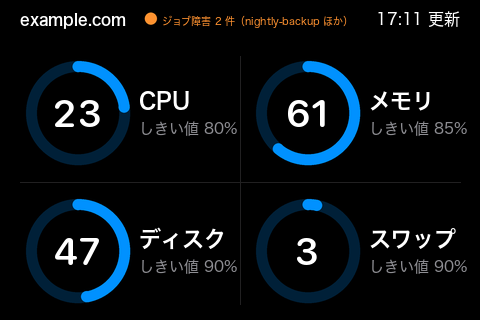
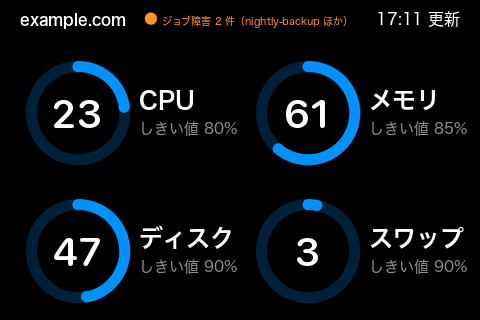
feat: 5.2 インチの「サーバー」の小見出しと 3.5 インチ 2 台の罫線を消し、その分リングと項目を大きくする
- 5.2 インチ: 小見出しを消し、リングを外径 228→240 px・数字 81→86 px に
- 3.5 インチ（この Mac の状態・サーバーの状態の横置き）: 縦横の罫線を消し、名前 22→24・数字 38→40 に
- 3.5 インチ（Claude の pace）: 2 段の間の罫線を消し、名前・数字・棒・下の行を大きく。下の行は、横の狭い
  3.5 インチでも左右の間が残る大きさに 2 段そろえて縮める
ユーザーの指示。docs/handover.md §4-26。

diff --git a/tests/test_monitor_screen.py b/tests/test_monitor_screen.py
@@ -17,6 +17,11 @@ def near(pixel, color, tolerance=12):
     return all(abs(a - b) <= tolerance for a, b in zip(pixel, color))
 
 
+def right_ring_left():
+    """横置きの右の列のリングの左端（3.5 インチ）。"""
+    return ms.LANDSCAPE.cells[1][0] + ms.LANDSCAPE.ring[0] - ms.LANDSCAPE.ring[2]
+
+
 COUNTERS = (sm.CounterSpec("5xx エラー", "Example/Application", "Http5xx", 5),
             sm.CounterSpec("PHP エラー", "Example/Application", "PhpFatalError", 1))
 
@@ -65,10 +70,12 @@ class MonitorScreenTest(unittest.TestCase):
         start = 480 - ms.LANDSCAPE.inset - font(ms.LANDSCAPE.stamp_size, SMALL_WEIGHT).getlength("00:00 更新")
         self.assertGreater(start, ms.LANDSCAPE.pill[2])
 
-    def test_landscape_threshold_stays_left_of_the_divider(self):
+    def test_landscape_threshold_stays_left_of_the_right_column(self):
+        # 2026-11-03 に罫線を消した。左の列のしきい値は、右の列のリングの左端から 12 ピクセル以上離れる
         threshold_x, _, _, threshold_size = ms.LANDSCAPE.threshold
         end = ms.LANDSCAPE.cells[0][0] + threshold_x + font(threshold_size, SMALL_WEIGHT).getlength("しきい値 85%")
-        self.assertLess(end, ms.LANDSCAPE.dividers[0][0])
+        self.assertEqual(ms.LANDSCAPE.dividers, ())
+        self.assertLess(end, right_ring_left() - 12)
 
     def test_landscape_detail_stays_gray_and_the_number_has_no_percent_sign(self):
         # 2026-10-27、視認性を上げるため、しきい値を 14→15 ピクセルにし、% を外して数字を 30→38 にした。
@@ -103,7 +110,7 @@ class MonitorScreenTest(unittest.TestCase):
         self.assertTrue(all(b - a > 2 * radius + 20 for a, b in zip(xs, xs[1:])))
         # リングとしきい値の字は「直近 24 時間」の小見出しの上に収まる（上下のまとまりの間の罫線は 2026-11-03 に消した）
         self.assertEqual(large.dividers, ())
-        caption_x, caption_y, _caption, caption_size, _w, _a = large.headings[1]
+        caption_x, caption_y, _caption, caption_size, _w, _a = large.headings[-1]  # 「直近 24 時間」
         self.assertLess(cy + radius, large.threshold[1] - large.threshold[3])
         self.assertLess(large.threshold[1] + 3, caption_y - caption_size - 10)
         self.assertGreater(cy - radius, ms.BIG_BOX[2][1])  # 異常の 2 行の帯の下
@@ -140,26 +147,28 @@ class MonitorScreenTest(unittest.TestCase):
             self.assertEqual(image.getpixel((2, image.height - 2)), RED)
 
     def test_headings_under_a_two_line_alert_are_not_drawn(self):
-        # 2 行の異常の文言の帯は「サーバー」の小見出しまで伸びるので、その小見出しは描かない
+        # 2 行の異常の文言の帯にかかる小見出しは描かない（「サーバー」の小見出しがあった 2026-11-03 に入れた仕組み。
+        # 同日その小見出しは消したので、帯にかかる位置に小見出しを置いた配置で確かめる）
         cfg = config(counters=COUNTERS, large_alerts=True)
         long = "トップ 本文に必要な文字列が無い状態が続いていて、再読み込みしても戻らない"
         st = status_with_counters()
         assessment = sm.Assessment((long,), (), frozenset())
-        image = ms.render(st, assessment, cfg, layout=ms.LANDSCAPE_LARGE)
-        k = ms.LANDSCAPE_LARGE.k
-        _hx, hy, _text, size, _w, _a = ms.LANDSCAPE_LARGE.headings[0]
+        layout = replace(ms.LANDSCAPE_LARGE, headings=((26.7, 54.2, "サーバー", 12, 6, "ls"),))
+        image = ms.render(st, assessment, cfg, layout=layout)
+        k = layout.k
+        _hx, hy, _text, size, _w, _a = layout.headings[0]
         self.assertLessEqual(hy - size, ms.BIG_BOX[2][1])  # この小見出しは 2 行の帯にかかる位置にある
-        bare = ms.render(st, assessment, cfg, layout=replace(ms.LANDSCAPE_LARGE, headings=()))
+        bare = ms.render(st, assessment, cfg, layout=replace(layout, headings=()))
         band = (0, 0, 1280, round(ms.BIG_BOX[2][1] * k))  # 帯の下端までは、小見出しの無い配置と同じ
         self.assertEqual(image.crop(band).tobytes(), bare.crop(band).tobytes())
 
     def test_landscape_long_labels_fit_their_cells(self):
-        # 2026-10-27 に名前を 18→22 ピクセルにした。左の列の名前は区切り線の手前、右の列の名前は
-        # その下の「しきい値 90%」より右へ出ない
+        # 2026-10-27 に名前を 18→22、2026-11-03 に 24 ピクセルにした。左の列の名前は右の列のリングの手前、
+        # 右の列の名前はその下の「しきい値 90%」より右へ出ない
         label_x, _, _, label_size = ms.LANDSCAPE.label
         threshold_x, _, _, threshold_size = ms.LANDSCAPE.threshold
         width = max(font(label_size, 6).getlength(text) for text in ("ディスク", "スワップ"))
-        self.assertLess(ms.LANDSCAPE.cells[2][0] + label_x + width, ms.LANDSCAPE.dividers[0][0] - 4)
+        self.assertLess(ms.LANDSCAPE.cells[2][0] + label_x + width, right_ring_left() - 12)
         self.assertLessEqual(label_x + width, threshold_x + font(threshold_size, SMALL_WEIGHT).getlength("しきい値 90%"))
 
     def test_job_incidents_show_an_orange_dot_on_black(self):

diff --git a/claude_usage_display/pace.py b/claude_usage_display/pace.py
@@ -17,22 +17,25 @@ from datetime import datetime
 from PIL import Image, ImageDraw
 
 from . import gauge
-from .gauge import BACKGROUND, CARD, DARK_TRACK_MIX, LABEL, ORANGE, SECONDARY, _mix, rounded, tint
+from .gauge import BACKGROUND, DARK_TRACK_MIX, LABEL, ORANGE, SECONDARY, _mix, rounded, tint
 from .render import font
 from .usage import Meter, Snapshot
 
 HEIGHT = 720  # 寸法を決めた画面の高さ
 MARGIN = 60          # 左右の余白
-ROWS = (100, 410)    # 2 段の上端
-DIVIDER = 395        # 2 段の間の線
-NAME = (66, 52)      # 名前の基準線（段の上端から）・大きさ
-# 数字と下の行の大きさは、ユーザーの指示「使用量の数値をもう少し小さくして、その分リセットとあとを大きく」で、
-# 数字 140→110・% 50→40・下の行 36→46 にした（2026-11-03。下の行は大きくした分、基準線を 262→270 に下げた）
-NUMBER = (118, 110)  # 数字の基準線・大きさ
-UNIT = 40            # 「%」の大きさ（同日、70→50 をユーザーの指示で小さくし、数字に合わせて 40 にした）
+# 2 段の間の罫線を消し、段の間と下の余白を詰めた分で、名前 52→56・数字 110→120・% 40→44・棒の太さ 46→56・
+# 下の行 46→50 にした（2026-11-03、ユーザーの指示「3.5 モニターの罫線は消してその分項目を大きくして」）。
+# それまでの経緯: 数字 140→110・% 50→40・下の行 36→46（同日、「使用量の数値をもう少し小さくして、その分リセットと
+# あとを大きく」）、% 70→50（同日、「% はもう少し小さく」）
+ROWS = (84, 398)     # 2 段の上端
+NAME = (70, 56)      # 名前の基準線（段の上端から）・大きさ
+NUMBER = (122, 120)  # 数字の基準線・大きさ
+UNIT = 44            # 「%」の大きさ
 UNIT_GAP = 4         # 数字と「%」の間
-BAR = (150, 196)     # 棒の上端と下端
-LINE = (270, 46)     # 下の行の基準線・大きさ
+BAR = (156, 212)     # 棒の上端と下端
+LINE = (290, 50)     # 下の行の基準線・大きさ（収まらなければ LINE_MIN まで縮める）
+LINE_MIN = 36
+LINE_GAP = 32        # 下の行の、リセットと残り時間の間に残す幅
 # 見出しの右の時刻の大きさ（3.5 インチの寸法）。となりのこの Mac の状態の画面（monitor_screen の横置き、16）に
 # そろえる（2026-11-03 ユーザーの指示。ゲージ型の画面の 3.5 インチの既定は 13 で、並べると小さく見えた）。
 # 5.2 インチでは 36 px で、それまでと同じ
@@ -73,8 +76,16 @@ def render(snapshot: Snapshot | None, now: datetime, status: str | None = None,
     draw = ImageDraw.Draw(image)
     gauge._header(image, draw, layout, gauge.HEADER_BASELINE, "Claude Code", snapshot, status,
                   (icons or {}).get("claude"), STAMP)
-    draw.line((left, DIVIDER * s, right, DIVIDER * s), fill=CARD, width=max(1, sized(2)))
-    for meter, top in zip(meters, ROWS):
+    # 下の行（リセットと残り時間）は、2 段とも左右の間に LINE_GAP を残して収まる大きさにそろえる。寸法を高さの比で
+    # 縮めるので、横の狭い 3.5 インチ（3:2）では 50 のままだと週次の日時と残り時間がくっついた（2026-11-03）
+    lines = [(_reset_text(when), remain) for when, remain in (gauge.reset_lines(m.resets_at, now) for m in meters)]
+    line_size = sized(LINE[1])
+    while line_size > sized(LINE_MIN) and any(
+            font(line_size, 6).getlength(a) + font(line_size, 6).getlength(b) > right - left - LINE_GAP * s
+            for a, b in lines):
+        line_size -= 1
+    line_font = font(line_size, 6)
+    for meter, (reset_text, remain), top in zip(meters, lines, ROWS):
         draw.text((left, (top + NAME[0]) * s), meter.label, font=font(sized(NAME[1]), 6), fill=LABEL, anchor="ls")
         baseline = (top + NUMBER[0]) * s
         if meter.percent is None:
@@ -84,10 +95,8 @@ def render(snapshot: Snapshot | None, now: datetime, status: str | None = None,
             draw.text((right, baseline), "%", font=unit, fill=SECONDARY, anchor="rs")
             draw.text((right - unit.getlength("%") - UNIT_GAP * s, baseline), f"{round(meter.percent)}",
                       font=rounded(sized(NUMBER[1])), fill=LABEL, anchor="rs")
-        when, remain = gauge.reset_lines(meter.resets_at, now)
         baseline = (top + LINE[0]) * s
         # リセットと残り時間は、大きさも太さも同じ（2026-11-03、残り時間を W3 にしていたら小さく見えるとユーザーが指摘）
-        line_font = font(sized(LINE[1]), 6)
-        draw.text((left, baseline), _reset_text(when), font=line_font, fill=LABEL, anchor="ls")
+        draw.text((left, baseline), reset_text, font=line_font, fill=LABEL, anchor="ls")
         draw.text((right, baseline), remain, font=line_font, fill=LABEL, anchor="rs")
     return image

diff --git a/claude_usage_display/monitor_screen.py b/claude_usage_display/monitor_screen.py
@@ -98,9 +98,13 @@ LANDSCAPE = _Layout(
     # 「がちゃがちゃする」として灰色に戻した。15 ピクセルの下の行を区切り線の手前に収めるため、名前と下の行を
     # 126→119 へ寄せた（リングの外側 110 との間は 9）。左の列の「しきい値 80%」（15 ピクセルで幅 99）の右端は 238 で、
     # 区切り線（240）の 2 ピクセル手前。しきい値は 2 桁の整数まで収まる。「ディスク」（22 ピクセルで幅 87）の
-    # 右端は 226。数字の「100」（幅 71）はリングの内側（直径 82）に収まる
-    cells=((20, 44), (250, 44), (20, 182), (250, 182)), ring=(58, 69, 52, 11), label=(119, 65, "ls", 22),
-    number=(58, 83, 38, 0, True), threshold=(119, 90, "ls", 15), dividers=((240, 56, 240, 304), (20, 182, 460, 182)))
+    # 右端は 226。数字の「100」（幅 71）はリングの内側（直径 82）に収まる。
+    # 2026-11-03、ユーザーの指示「3.5 モニターの罫線は消してその分項目を大きくして」で、縦横の罫線を消し、名前を
+    # 22→24・数字を 38→40 にした。リングは横幅で大きさが決まる（左の列のしきい値の右端 238 と、右の列のリングの
+    # 左端 256 の間は 18）ので変えていない。「ディスク」（24 ピクセルで幅 95）の右端は 234、「100」（40 で幅 75）は
+    # リングの内側（82）に収まる
+    cells=((20, 44), (250, 44), (20, 182), (250, 182)), ring=(58, 69, 52, 11), label=(119, 65, "ls", 24),
+    number=(58, 84, 40, 0, True), threshold=(119, 90, "ls", 15), dividers=())
 PORTRAIT = _Layout(
     size=(320, 480), inset=16, title_baseline=26, pill=(16, 38, 304, 70), status_baseline=60, dot_y=53.5,
     # 監視の状態は、実機を見たユーザーの指示で大きくした（2026-10-11。文言 13→18、帯の中 15→18）。
@@ -135,10 +139,11 @@ LANDSCAPE_LARGE = replace(
     # 下のまとまりを下へ寄せて画面の下の余白を減らし（同日、ユーザーの指示）、続けて上下のまとまりの間の罫線を消して、
     # その分リングを外径 200→228 px・数字 70→81 px にした（同日、ユーザーの指示）。リングの上端は「サーバー」の
     # 小見出しから 13 px、しきい値の字と「直近 24 時間」の字の間は約 35 px
-    ring=(0, _px(254), _px(114), _px(25)), label=(0, _px(408), "ms", 14), number=(0, _px(282), 36, 0, True),
+    # 続けて「サーバー」の小見出しを消し、リングの上端を 140→128 px（異常の 2 行の帯の下端 121.5 px の下）に上げて、
+    # 外径 228→240 px・数字 81→86 px にした（同日、ユーザーの指示）。名前・しきい値の位置は変えていない
+    ring=(0, _px(248), _px(120), _px(26)), label=(0, _px(408), "ms", 14), number=(0, _px(278), 38, 0, True),
     threshold=(0, _px(438), "ms", 11), dividers=(),
-    headings=((_px(60), _px(122), "サーバー", 12, 6, "ls"),
-              (_px(60), _px(498), "直近 24 時間（1 時間ごと）", 10, SMALL_WEIGHT, "ls")),
+    headings=((_px(60), _px(498), "直近 24 時間（1 時間ごと）", 10, SMALL_WEIGHT, "ls"),),
     counter_rows=_CounterRows(top=_px(504), height=_px(108), left=_px(60), right=_px(1220), baseline=_px(68),
                               spark=(_px(330), _px(560), _px(52), _px(76)), label_size=15, number_size=22,
                               unit_size=12))

diff --git a/tests/test_pace.py b/tests/test_pace.py
@@ -50,8 +50,16 @@ class PaceTest(unittest.TestCase):
     def test_only_session_and_weekly_are_drawn(self):
         # Fable を使っていないので 2 項目だけ（2026-11-03 ユーザーの指示）。3 段目の位置は黒のまま
         image = pace.render(snapshot(), NOW, size=SIZE)
-        below = [image.getpixel((x, 700)) for x in range(pace.MARGIN, SIZE[0] - pace.MARGIN, 10)]
+        below = [image.getpixel((x, 714)) for x in range(pace.MARGIN, SIZE[0] - pace.MARGIN, 10)]
         self.assertTrue(all(p == gauge.BACKGROUND for p in below))
+
+    def test_no_line_between_the_rows(self):
+        # 2026-11-03、2 段の間の罫線を消した（ユーザーの指示）。1 段目の下の行と 2 段目の名前の間は黒だけ
+        image = pace.render(snapshot(), NOW, size=SIZE)
+        gap = range(pace.ROWS[0] + pace.LINE[0] + 14, pace.ROWS[1] + pace.NAME[0] - pace.NAME[1])
+        self.assertGreater(len(gap), 10)
+        self.assertTrue(all(image.getpixel((x, y)) == gauge.BACKGROUND
+                            for y in gap for x in range(pace.MARGIN, SIZE[0] - pace.MARGIN, 8)))
 
     def test_missing_values_and_fetch_errors_still_render(self):
         gone = Snapshot((Meter("5時間", None, None), Meter("週次", 9, NOW + timedelta(days=6))), NOW)
@@ -70,6 +78,20 @@ class PaceTest(unittest.TestCase):
         reset_end = pace.MARGIN + line.getlength("リセット 12/31(木) 23:59")
         remain_start = SIZE[0] - pace.MARGIN - line.getlength("あと6日23時間")  # 残り時間もリセットと同じ字
         self.assertLess(reset_end + 40, remain_start)
+
+    def test_bottom_line_keeps_a_gap_on_the_35_inch_display(self):
+        # 2026-11-03、3.5 インチ（横の狭い 3:2）で週次の日時と残り時間がくっついた。字を縮めて間を残す
+        long = Snapshot((Meter("5時間", 26.0, NOW + timedelta(hours=4, minutes=59)),
+                         Meter("週次", 74.0, NOW + timedelta(days=6, hours=23, minutes=59))), NOW)
+        image = pace.render(long, NOW, size=(480, 320))
+        s = 320 / pace.HEIGHT
+        top, bottom = round((pace.ROWS[1] + pace.LINE[0] - pace.LINE[1] * 0.8) * s), round((pace.ROWS[1] + pace.LINE[0]) * s)
+        inked = [any(min(image.getpixel((x, y))) > 120 for y in range(top, bottom)) for x in range(480)]
+        runs, gap = [], 0
+        for x in range(round(pace.MARGIN * s), 480 - round(pace.MARGIN * s)):
+            gap = 0 if inked[x] else gap + 1
+            runs.append(gap)
+        self.assertGreaterEqual(max(runs), round(pace.LINE_GAP * s * 0.8))  # 左右の文言の間に隙間がある
 
     def test_unit_is_smaller_than_half_of_the_number(self):
         # 2026-11-03、「% はもう少し小さく」（ユーザーの指示。数字 140 に対して 70 → 50）

diff --git a/docs/handover.md b/docs/handover.md
@@ -514,6 +514,10 @@ scripts/uninstall-launch-agent.sh                                 # 自動起動
 - **「サイト」の小見出しを消し、リングを大きくした**（同日、ユーザーの指示「サイトの文字は不要。直近 24 時間を左寄せに。それがなくなった分はサークルを大きくして」）。「直近 24 時間（1 時間ごと）」を左端（名前と同じ）にそろえ、縦の間を詰めて、リングを外径 172→200 px・太さ 20→22 px・数字 61→70 px にした（区切り線 418→430、件数の行 476〜700 → 478〜694）。2 行の異常の帯の下端（121.5 px）とリングの上端（140 px）は重ならない
 - **罫線の上下の隙間をそろえて広げ、画面の下の余白を減らした**（同日、ユーザーの指示「サークルのブロックと下のブロックの間の罫線前後は隙間を。下のブロックの画面下の padding はもっと減らして OK」）。罫線 430→445、「直近 24 時間」の基準線 466→498、件数の行の上端 478→504。画素で測って、罫線の上の隙間 33 px・下の隙間 32 px（前は約 15 px ずつ）、画面の下の余白 32 px（前は約 58 px）
 - **上下のまとまりの間の罫線を消し、その分リングを大きくした**（同日、ユーザーの指示）。リングを外径 200→228 px・太さ 22→25 px・数字 70→81 px にし、名前・しきい値の基準線を 380・410 → 408・438 に下げた。「サーバー」の小見出しとリングの間は 16 px（前は 17 px）、しきい値の字と「直近 24 時間」の字の間は 39 px、画面の下の余白は 32 px のまま（画素で測った）。「100」（幅 152 px）はリングの内側（178 px）に収まる
+- **「サーバー」の小見出しを消し、その分リングを大きくした**（同日、ユーザーの指示）。リングの上端を 140→128 px（異常の 2 行の帯の下端 121.5 px の下）に上げ、外径 228→240 px・太さ 25→26 px・数字 81→86 px にした。名前・しきい値・下のまとまりの位置は変えていない。帯にかかる小見出しを描かない仕組みは残し、テストは帯にかかる位置に小見出しを置いた配置で確かめる形にした
+- **3.5 インチの 2 台の罫線も消した**（同日、ユーザーの指示「3.5 モニターの罫線は消してその分項目を大きくして」）
+  - この Mac の状態の画面（`monitor_screen.LANDSCAPE`。3.5 インチのサーバーの状態の画面と共通）: 縦横の罫線を消し、名前を 22→24 px・数字を 38→40 px にした。リングは横幅で大きさが決まる（左の列のしきい値の右端 238 と右の列のリングの左端 256 の間が 18）ので変えていない。テストの境目は、罫線の位置（240）から「右の列のリングの左端から 12 手前」に替えた。README の横置きの 5 枚を描き直した（見出しは変わらない）
+  - Claude の画面（`pace`）: 2 段の間の罫線を消し、段の間と下の余白を詰めて、名前 52→56・数字 110→120・% 40→44・棒の太さ 46→56・下の行 46→50 にした（5.2 インチの寸法）。この画面は高さの比で縮めるので、横の狭い 3.5 インチでは週次の日時と残り時間がくっついた。そこで下の行は、2 段とも左右の間に 32（5.2 インチの寸法）を残して収まる大きさにそろえて縮める（下限 36）。3.5 インチでは 21〜22 px（週次の日付が長いとき 20 px）
 
 ## 5. 残っている作業（上から順に）
 
